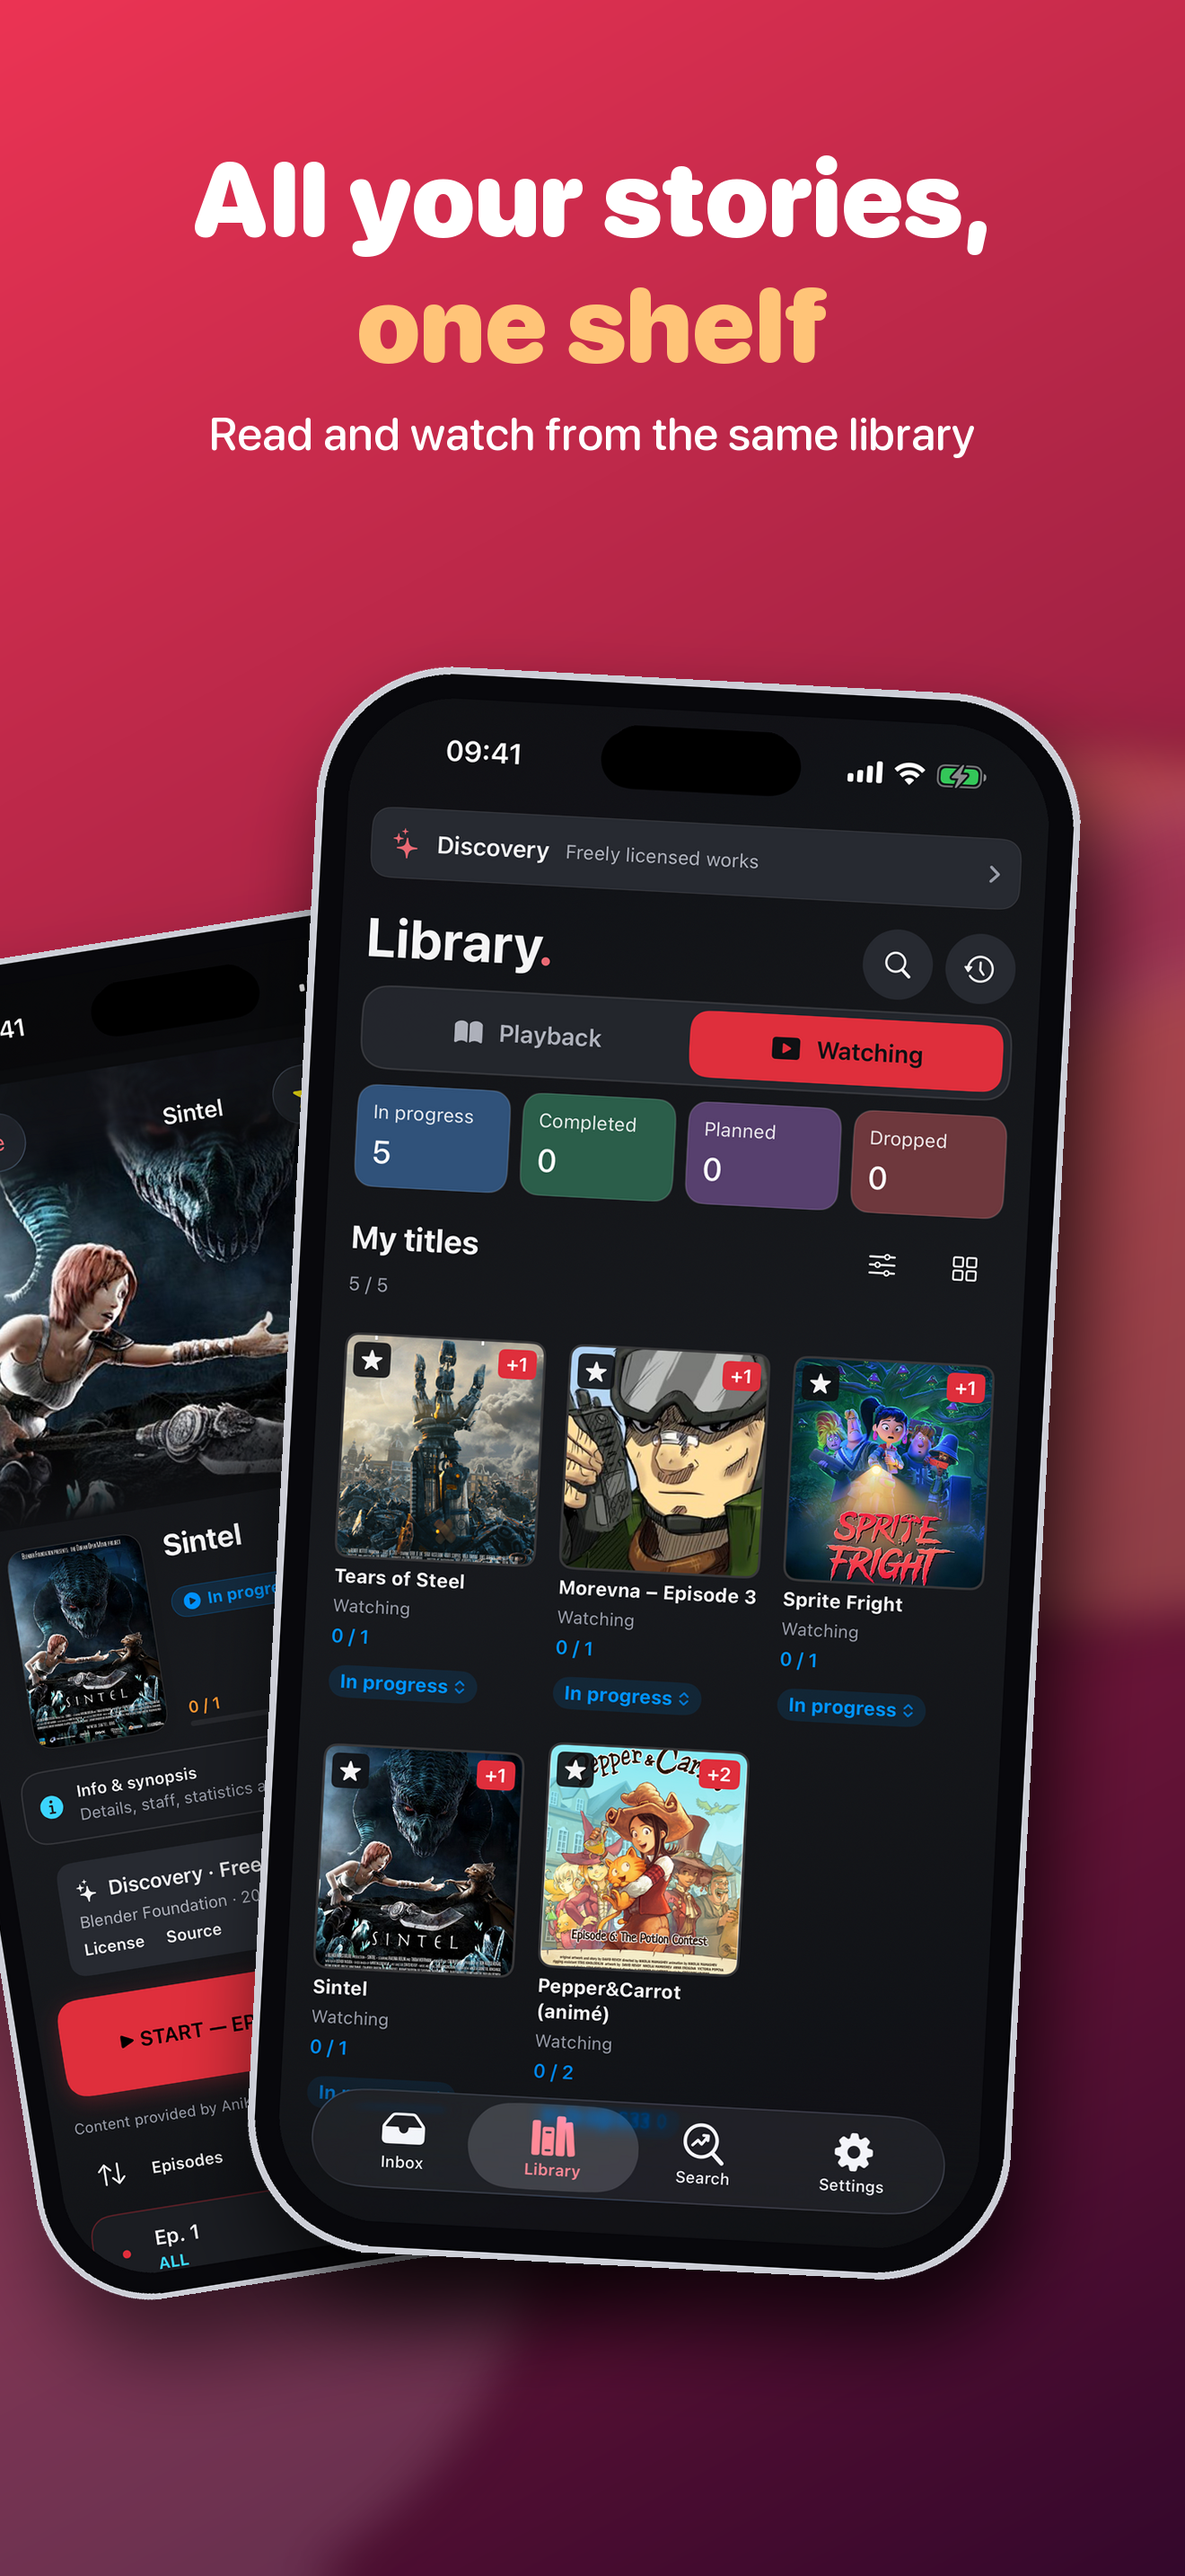
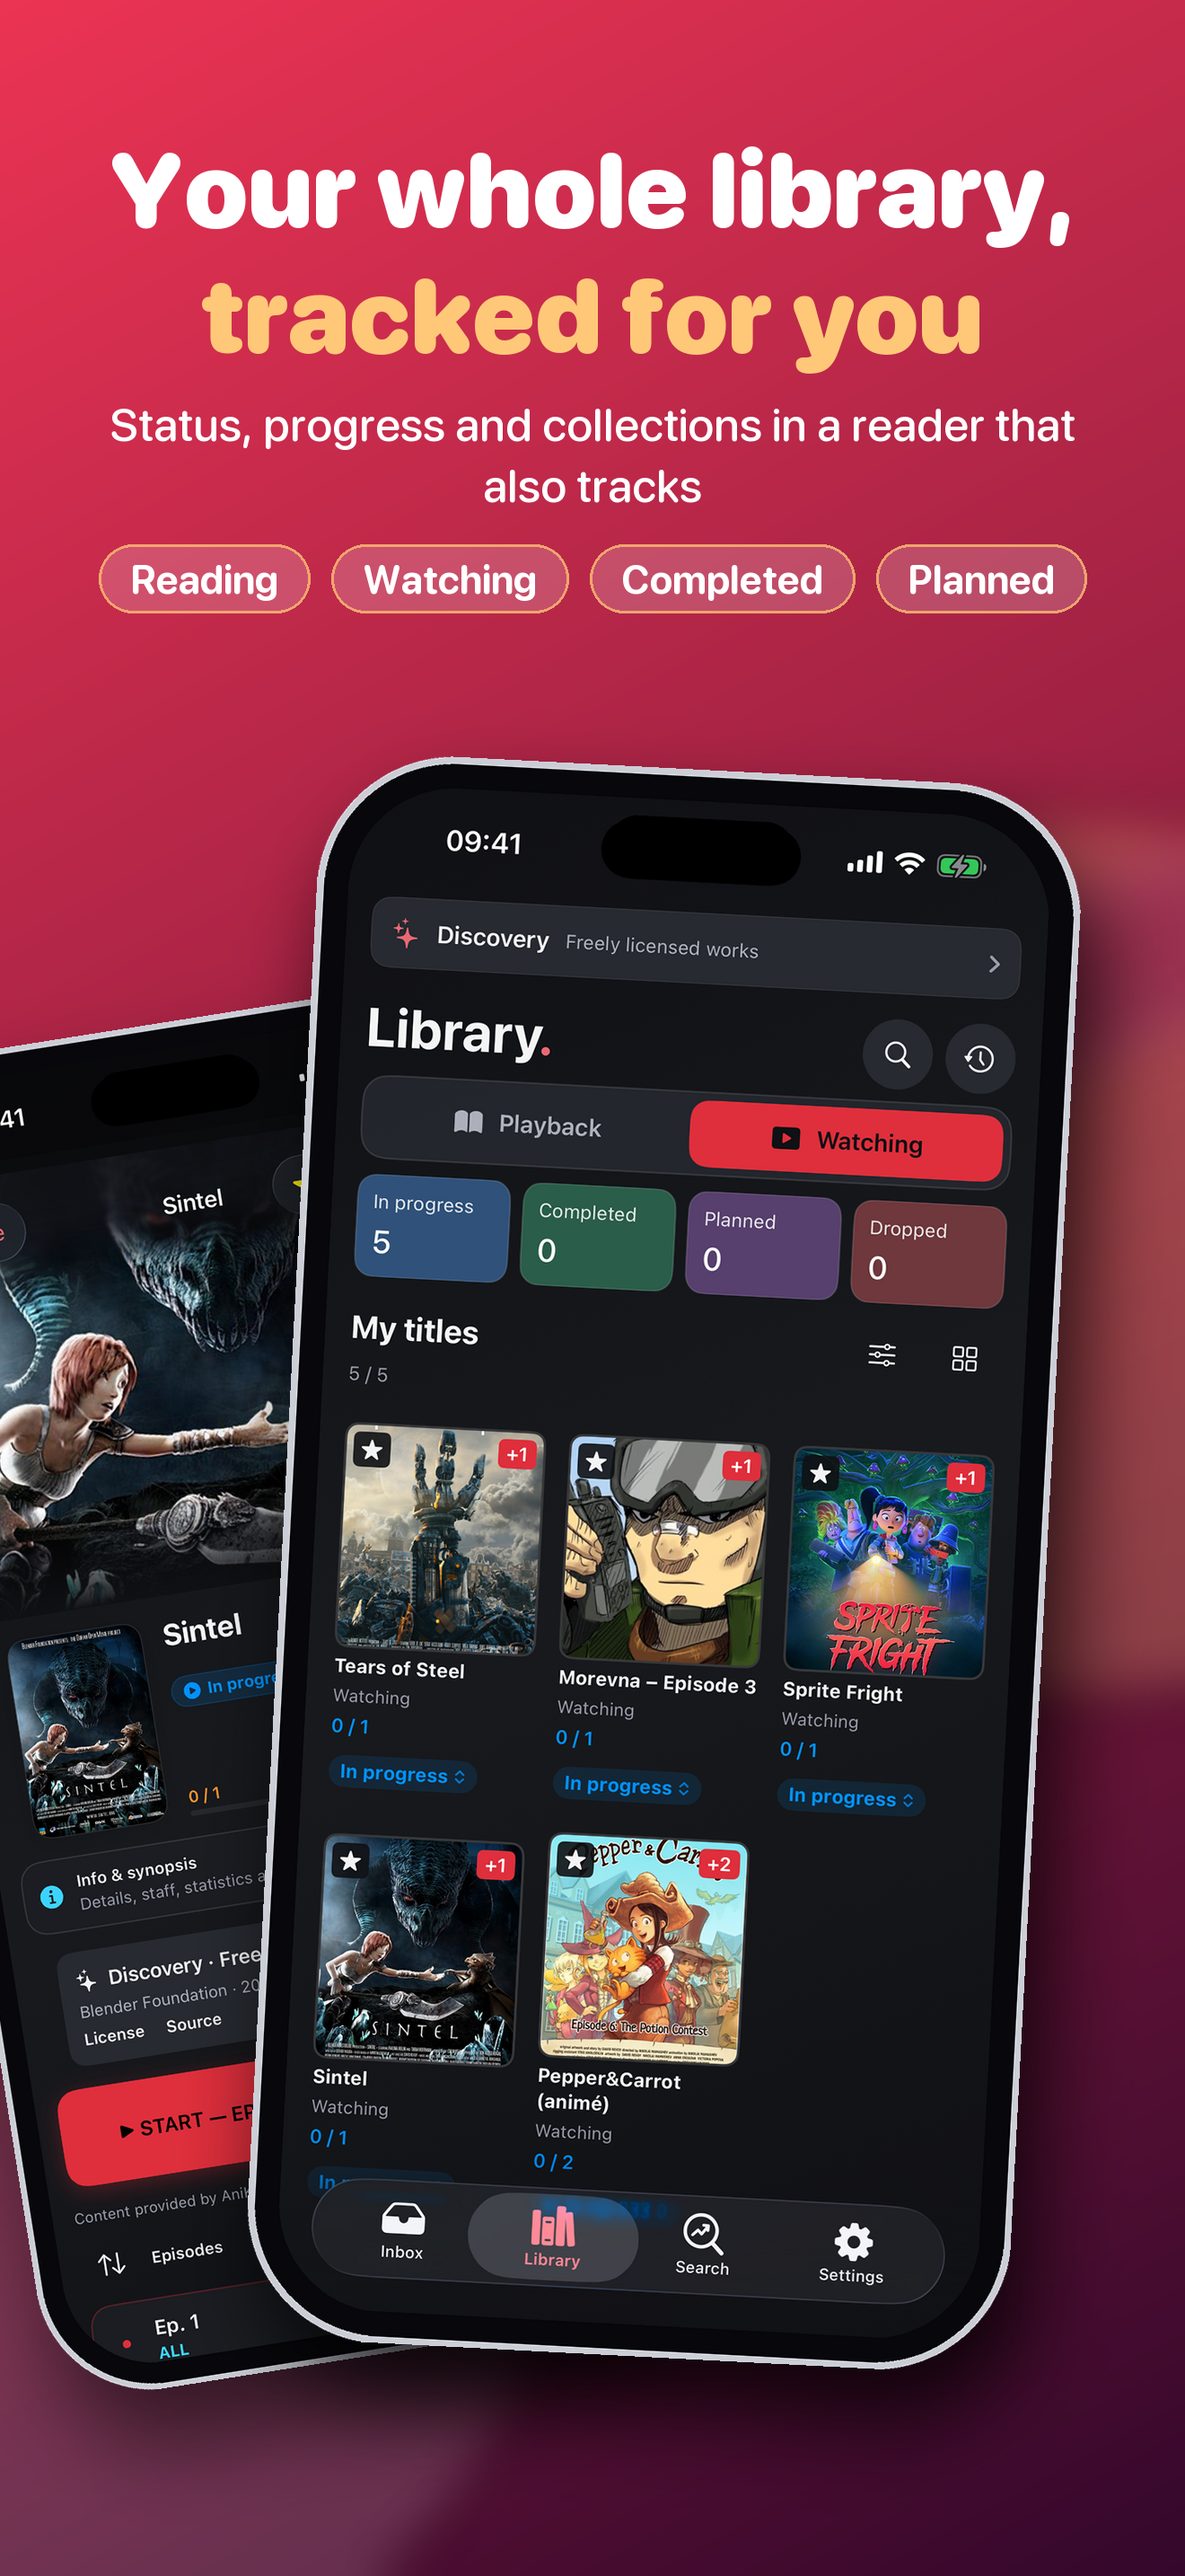
docs: new screenshots and gallery

diff --git a/README.md b/README.md
@@ -33,10 +33,10 @@ Read, watch and track your progress. On iPhone and iPad.
 ## A look inside
 
 <p align="center">
-  <img src="screenshots/01-discovery.png" width="23%" alt="Discovery" />
-  <img src="screenshots/02-library.png" width="23%" alt="Library" />
-  <img src="screenshots/03-title.png" width="23%" alt="Title page" />
-  <img src="screenshots/05-reader.png" width="23%" alt="Reader" />
+  <img src="screenshots/01-reader.png" width="23%" alt="Reader" />
+  <img src="screenshots/02-library.png" width="23%" alt="Library and tracking" />
+  <img src="screenshots/03-sync.png" width="23%" alt="AniList and MyAnimeList sync" />
+  <img src="screenshots/04-modules.png" width="23%" alt="Connections and modules" />
 </p>
 
 <sub>Screens show freely licensed works only: Sintel and Sprite Fright (Blender Foundation / Studio, CC BY), Pepper&Carrot (David Revoy, CC BY), Morevna Project (CC BY).</sub>
